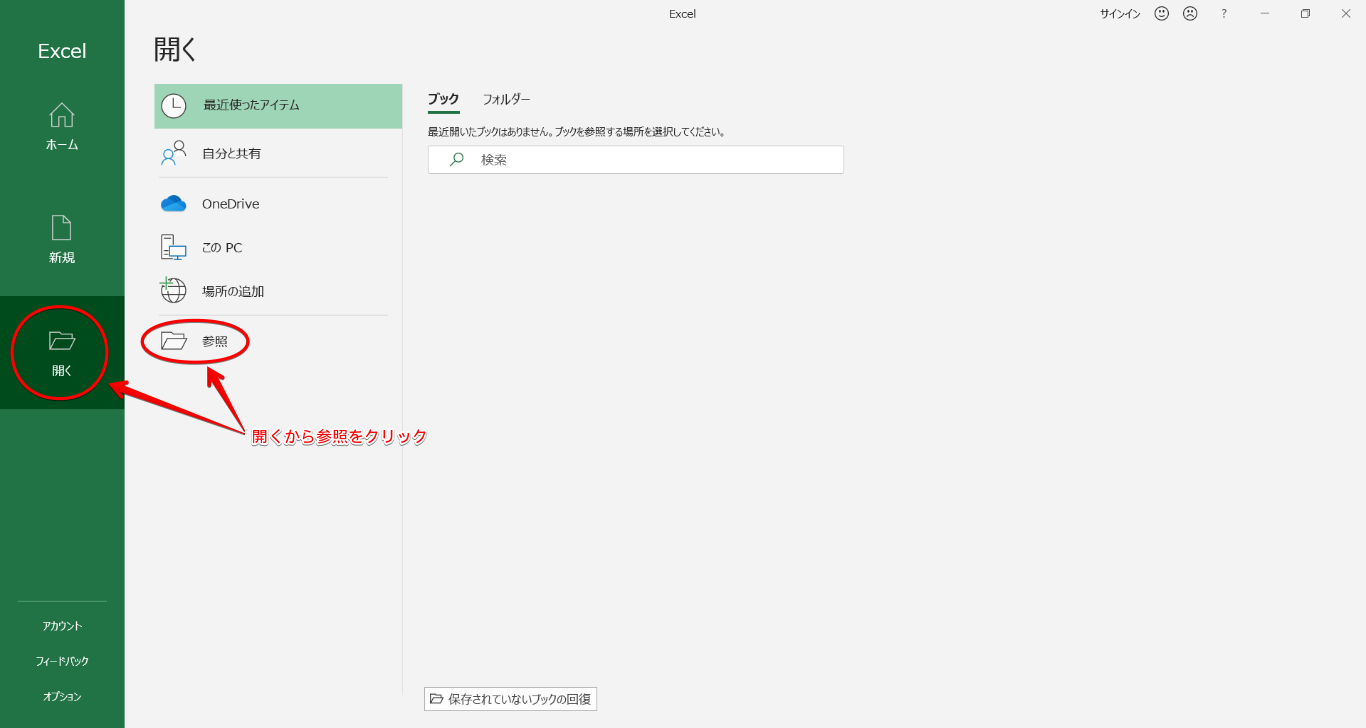
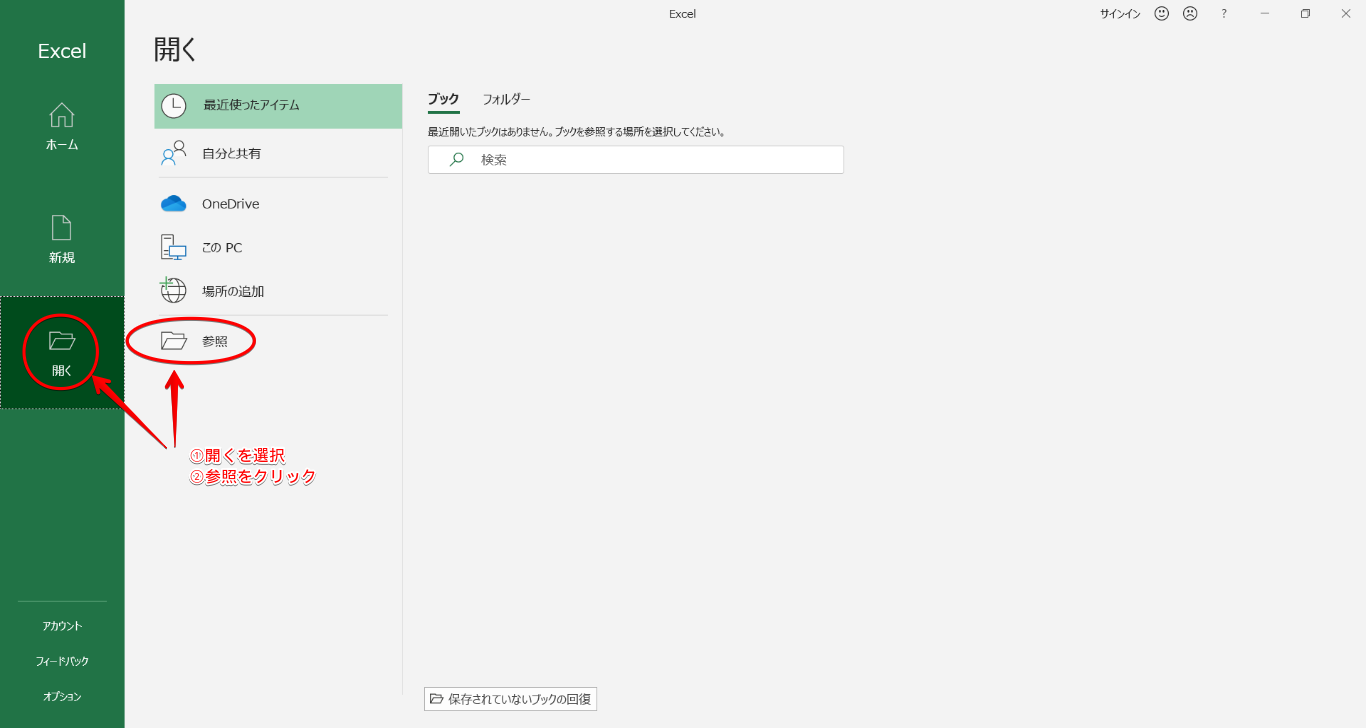
excel 1の更新(ブックの作成と保存の修正)

Changed region(s): [[0.0, 0.3929, 0.3075, 0.6648]]

diff --git a/contents/office2019/excel/01/index.md b/contents/office2019/excel/01/index.md
@@ -53,13 +53,13 @@ Microsoft Excelの起動
 ****
 ####  新規作成
 
-1.  ホームまたは新規作成から空白のブックをクリックします。
+1.  "ホーム"または"新規作成"から"空白のブック"をクリックします。
 {% screenshot shinki.png "新規作成" %}
 #### 既存ブックのオープン（改訂、再編集）
 
 1.  ![ファイル タブ](pic/filebutton.png) をクリックします。
-1.  {% screenshot open.png "新規作成" %}
-開くから参照をクリックし、目的のブックのあるフォルダに移動します
+1.  {% screenshot open.png "既存ブックのオープン" %}
+"開く"から"参照"をクリックし、目的のブックのあるフォルダに移動します
 1.  目的のファイルのアイコン ![Excel ブック形式ファイル](pic/xlsx.png) をダブルクリック、または選択して開きます
 
 あるいは、目的の文書のあるフォルダに移動し、そのアイコンをダブルクリックします。
